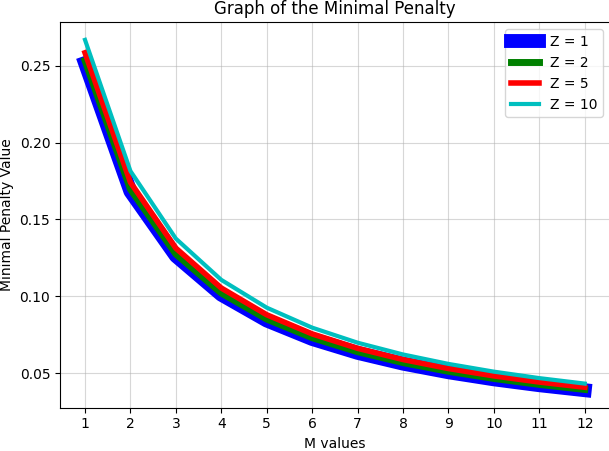
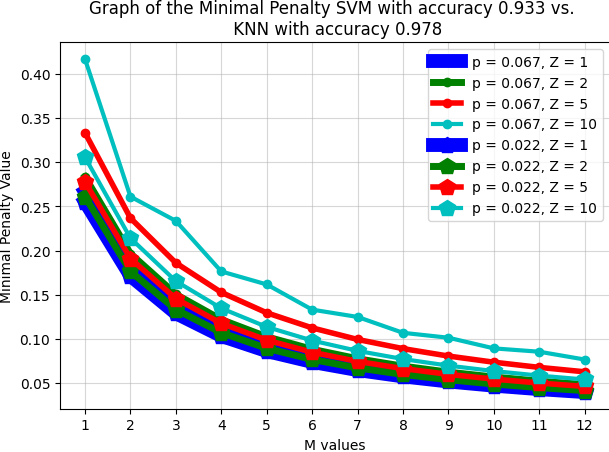
new dataset

diff --git a/ml_to_graph.py b/ml_to_graph.py
@@ -49,54 +49,73 @@ def objective(y:np.ndarray, Z:int, p:float, M:int, N:int, avg_aois:dict={}) -> f
     
     return objective
 
-import pickle
-with open("accuracy.pkl", "rb") as file:
-    accuracy = pickle.load(file)
+accuracy_scores = {}
+with open('accuracy_scores.txt', 'r') as file:
+    for line in file:
+        model, score = line.strip().split(': ')
+        accuracy_scores[model] = float(score)
 
-M_values = [1,2,3,4,5,6,7,8,9,10,11,12] # Number of updates
-N = 1  # Time interval
-p = 1-accuracy
-Z_list = [1,2,5,10]
+# Find the lowest and highest scores
+lowest_score_model = min(accuracy_scores, key=accuracy_scores.get)
+highest_score_model = max(accuracy_scores, key=accuracy_scores.get)
+
 AoIs = {}
 fig1, ax1 = plt.subplots()
-line_colors = ['b','g','r','c']
-widths = [10,5,4,3]
+M_values = [1, 2, 3, 4, 5, 6, 7, 8, 9, 10, 11, 12]  # Number of updates
+N = 1  # Time interval
+p_values = [1 - accuracy_scores[lowest_score_model], 1 - accuracy_scores[highest_score_model]]  # Two p values
+Z_list = [1, 2, 5, 10]  # List of Z values
+line_colors = ['b', 'g', 'r', 'c']
+widths = [10, 5, 4, 3]
 
-for i, z in enumerate(Z_list):
-    result_values = []  
-    avg_aoi_values = []
-    interval_values = []
-    for M in M_values:
-        y0 = np.ones(M+1) / (M+1) # 0, ..., M, M update epochs, M+1 intervals
+for p in p_values:
+    for i, z in enumerate(Z_list):
+        result_values = []  
+        avg_aoi_values = []
+        interval_values = []
+        for M in M_values:
+            y0 = np.ones(M+1) / (M+1) # 0, ..., M, M update epochs, M+1 intervals
 
-        lower_bounds = [0] * (M+1)
-        upper_bounds = [1] * (M+1)
-        bounds = Bounds(lower_bounds, upper_bounds)
+            lower_bounds = [0] * (M+1)
+            upper_bounds = [1] * (M+1)
+            bounds = Bounds(lower_bounds, upper_bounds)
 
-        A = np.ones((1, M+1))
-        lower_bound = [1] # the trick to have the sum EQUAL to 1 is that you set the lower limit to 1 and the upper limit also to 1
-        upper_bound = [1]
-        linear_constraint = LinearConstraint(A, lower_bound, upper_bound)
+            A = np.ones((1, M+1))
+            lower_bound = [1] # the trick to have the sum EQUAL to 1 is that you set the lower limit to 1 and the upper limit also to 1
+            upper_bound = [1]
+            linear_constraint = LinearConstraint(A, lower_bound, upper_bound)
 
-        result = minimize(lambda ys: objective(ys, z, p, M, N, AoIs), y0, bounds=bounds, constraints=linear_constraint)
-        result_values.append(result.fun)  # Append the result value
-        avg_aoi_values.append(AoIs[z])  # Calculate and append the avg_aoi value
-                
-        valid_interval = sum([1 for val in result.x if val > 1e-5])
-        interval_values.append(valid_interval)
-        num_of_updates = valid_interval-1
+            result = minimize(lambda ys: objective(ys, z, p, M, N, AoIs), y0, bounds=bounds, constraints=linear_constraint)
+            result_values.append(result.fun)  # Append the result value
+            avg_aoi_values.append(AoIs[z])  # Calculate and append the avg_aoi value
+                    
+            valid_interval = sum([1 for val in result.x if val > 1e-5])
+            interval_values.append(valid_interval)
+            num_of_updates = valid_interval-1
+            if z==10:
+                print(p)
+                print(num_of_updates)
 
-        """ cutting_idx = 0
-        my_bool = False
-        for j in range(len(interval_values)):
-            if interval_values[j] <= M:
-                print(interval_values[j])
-                my_bool = True
-                cutting_idx = j
-                break """
-           
-    ax1.plot(M_values, result_values, label="Z = " + str(z), color=line_colors[i % len(line_colors)], linewidth=widths[i % len(widths)])
-    # if we want to plot whole graphs just comment the last part from print and use last 3 line
+            """ cutting_idx = 0
+            my_bool = False
+            for j in range(len(interval_values)):
+                if interval_values[j] <= M:
+                    print(interval_values[j])
+                    my_bool = True
+                    cutting_idx = j
+                    break """
+            
+        
+        ax1.plot(
+            M_values,
+            result_values,
+            label=f"p = {p:.3f}, Z = {z}",
+            color=line_colors[i % len(line_colors)],
+            linewidth=widths[i % len(widths)],
+            marker = 'p' if p == 1-accuracy_scores[highest_score_model] else 'o',
+            markersize = 12 if p == 1-accuracy_scores[highest_score_model] else 6,
+        )
+        # if we want to plot whole graphs just comment the last part from print and use last 3 line
 
 x_tick_labels = [str(M) for M in M_values]
 
@@ -108,7 +127,7 @@ ax1.grid(True, alpha=0.5)
 ax1.set_xlabel("M values")
 ax1.set_ylabel("Minimal Penalty Value")
 ax1.legend()
-ax1.set_title(f"Graph of the Minimal Penalty")
+ax1.set_title(f"Graph of the Minimal Penalty {lowest_score_model} with accuracy {accuracy_scores[lowest_score_model]:.3f} vs. \n {highest_score_model} with accuracy {accuracy_scores[highest_score_model]:.3f}")
 
 plt.tight_layout()
 plt.show()

diff --git a/iris.py b/iris.py
@@ -1,0 +1,53 @@
+import numpy as np
+import pandas as pd
+from sklearn.linear_model import LogisticRegression  # for Logistic Regression algorithm
+from sklearn.model_selection import train_test_split #to split the dataset for training and testing
+from sklearn.neighbors import KNeighborsClassifier  # for K nearest neighbours
+from sklearn import svm  #for Support Vector Machine (SVM) Algorithm
+from sklearn import metrics #for checking the model accuracy
+from sklearn.tree import DecisionTreeClassifier #for using Decision Tree Algoithm
+
+iris = pd.read_csv("Iris.csv") #load the dataset
+
+iris.drop('Id',axis=1,inplace=True)
+
+train, test = train_test_split(iris, test_size = 0.3)
+
+train_X = train[['SepalLengthCm','SepalWidthCm','PetalLengthCm','PetalWidthCm']]# taking the training data features
+train_y=train.Species# output of our training data
+test_X = test[['SepalLengthCm','SepalWidthCm','PetalLengthCm','PetalWidthCm']] # taking test data features
+test_y =test.Species   #output value of test data
+
+svm_model = svm.SVC() #select the algorithm
+svm_model.fit(train_X,train_y) # we train the algorithm with the training data and the training output
+prediction_svm = svm_model.predict(test_X) #now we pass the testing data to the trained algorithm
+predict_X_svm = svm_model.predict(train_X)
+
+lr = LogisticRegression()
+lr.fit(train_X,train_y)
+prediction_lr = lr.predict(test_X)
+predict_X_lr = lr.predict(train_X)
+
+dt=DecisionTreeClassifier()
+dt.fit(train_X,train_y)
+prediction_dt = dt.predict(test_X)
+predict_X_dt = dt.predict(train_X)
+
+kn=KNeighborsClassifier(n_neighbors=3) #this examines 3 neighbours for putting the new data into a class
+kn.fit(train_X,train_y)
+prediction_kn = kn.predict(test_X)
+predict_X_kn = kn.predict(train_X)
+
+# Calculate accuracy scores
+accuracy_scores = {
+    'SVM': metrics.accuracy_score(prediction_svm, test_y),
+    'Logistic Regression': metrics.accuracy_score(prediction_lr, test_y),
+    'Decision Tree': metrics.accuracy_score(prediction_dt, test_y),
+    'KNN': metrics.accuracy_score(prediction_kn, test_y)
+}
+
+# Save accuracy scores to a text file
+with open('accuracy_scores.txt', 'w') as file:
+    for model, score in accuracy_scores.items():
+        file.write(f'{model}: {score}\n')
+
